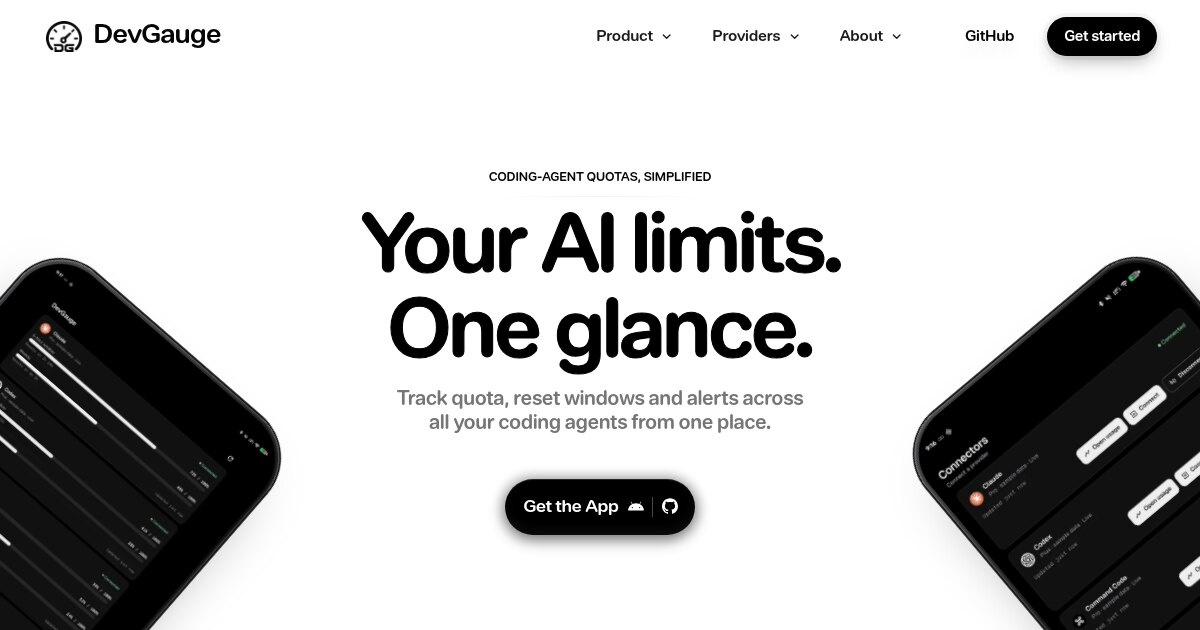
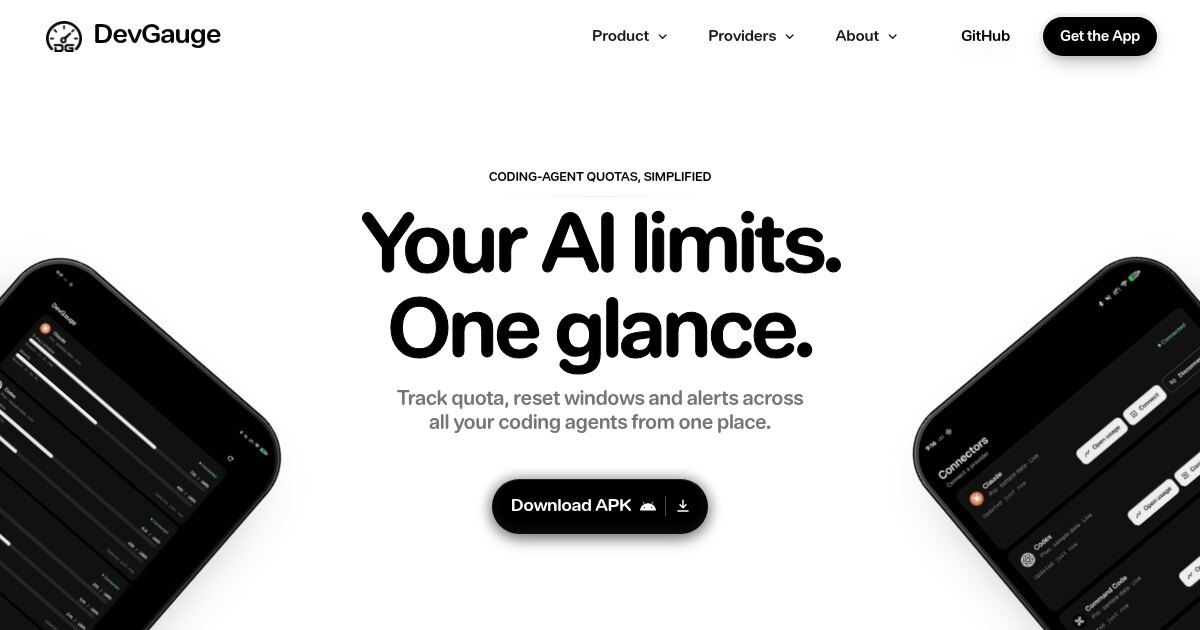
style updated

diff --git a/landing/index.html b/landing/index.html
@@ -79,7 +79,7 @@
             "applicationCategory": "DeveloperApplication",
             "operatingSystem": "Android 7.0 or later (ARM64)",
             "softwareVersion": "1.0.0",
-            "downloadUrl": "https://github.com/ahmad9059/devgauge/releases/latest",
+            "downloadUrl": "https://github.com/ahmad9059/devgauge/releases/download/v1.0.0/devgauge-1.0.0-arm64.apk",
             "image": "https://devgauge.devshub.xyz/assets/icon-512.png",
             "screenshot": [
               "https://devgauge.devshub.xyz/assets/phone-dashboard.webp",
@@ -151,7 +151,7 @@
 
         <div class="nav__actions">
           <a class="nav__login" href="https://github.com/ahmad9059/devgauge" rel="noopener">GitHub</a>
-          <a class="btn btn--small" href="https://github.com/ahmad9059/devgauge/releases/latest" rel="noopener">Get started</a>
+          <a class="btn btn--small" href="https://github.com/ahmad9059/devgauge/releases/latest" rel="noopener">Get the App</a>
         </div>
       </header>
 
@@ -190,20 +190,25 @@
           </p>
           <a
             class="btn btn--large"
-            href="https://github.com/ahmad9059/devgauge/releases/latest"
+            href="https://github.com/ahmad9059/devgauge/releases/download/v1.0.0/devgauge-1.0.0-arm64.apk"
             rel="noopener"
-            aria-label="Get the DevGauge app for Android from GitHub Releases"
+            aria-label="Download the DevGauge 1.0.0 APK for Android (ARM64)"
           >
-            <span>Get the App</span>
+            <span>Download APK</span>
             <svg class="btn__icon" viewBox="0 0 24 24" aria-hidden="true" focusable="false">
               <path
                 d="M17.523 15.3414c-.5511 0-.9993-.4486-.9993-.9997s.4483-.9993.9993-.9993c.5511 0 .9993.4483.9993.9993.0001.5511-.4482.9997-.9993.9997m-11.046 0c-.5511 0-.9993-.4486-.9993-.9997s.4482-.9993.9993-.9993c.5511 0 .9993.4483.9993.9993 0 .5511-.4483.9997-.9993.9997m11.4045-6.02 1.9973-3.4592a.416.416 0 0 0-.1521-.5676.416.416 0 0 0-.5676.1521l-2.0223 3.503C15.5902 8.2439 13.8533 7.8508 12 7.8508s-3.5902.3931-5.1367 1.0989L4.841 5.4467a.4161.4161 0 0 0-.5677-.1521.4157.4157 0 0 0-.1521.5676l1.9973 3.4592C2.6889 11.1867.3432 14.6589 0 18.761h24c-.3435-4.1021-2.6892-7.5743-6.1185-9.4396"
               />
             </svg>
             <span class="btn__divider" aria-hidden="true"></span>
-            <svg class="btn__icon" viewBox="0 0 24 24" aria-hidden="true" focusable="false">
+            <svg class="btn__icon btn__icon--download" viewBox="0 0 24 24" aria-hidden="true" focusable="false">
               <path
-                d="M12 .297c-6.63 0-12 5.373-12 12 0 5.303 3.438 9.8 8.205 11.385.6.113.82-.258.82-.577 0-.285-.01-1.04-.015-2.04-3.338.724-4.042-1.61-4.042-1.61C4.422 18.07 3.633 17.7 3.633 17.7c-1.087-.744.084-.729.084-.729 1.205.084 1.838 1.236 1.838 1.236 1.07 1.835 2.809 1.305 3.495.998.108-.776.417-1.305.76-1.605-2.665-.3-5.466-1.332-5.466-5.93 0-1.31.465-2.38 1.235-3.22-.135-.303-.54-1.523.105-3.176 0 0 1.005-.322 3.3 1.23.96-.267 1.98-.399 3-.405 1.02.006 2.04.138 3 .405 2.28-1.552 3.285-1.23 3.285-1.23.645 1.653.24 2.873.12 3.176.765.84 1.23 1.91 1.23 3.22 0 4.61-2.805 5.625-5.475 5.92.42.36.81 1.096.81 2.22 0 1.606-.015 2.896-.015 3.286 0 .315.21.69.825.57C20.565 22.092 24 17.592 24 12.297c0-6.627-5.373-12-12-12"
+                d="M12 3.5v11m0 0 4.5-4.5M12 14.5 7.5 10M4.5 19.5h15"
+                fill="none"
+                stroke="#fff"
+                stroke-width="2.2"
+                stroke-linecap="round"
+                stroke-linejoin="round"
               />
             </svg>
           </a>

diff --git a/landing/styles.css b/landing/styles.css
@@ -331,8 +331,8 @@ img {
   transform: translateY(-1px) scale(1.14) rotate(-6deg);
 }
 
-.btn--large:hover .btn__icon:last-of-type {
-  transform: translateY(-1px) scale(1.14) rotate(6deg);
+.btn--large:hover .btn__icon--download {
+  transform: translateY(2px);
 }
 
 .btn__divider {
